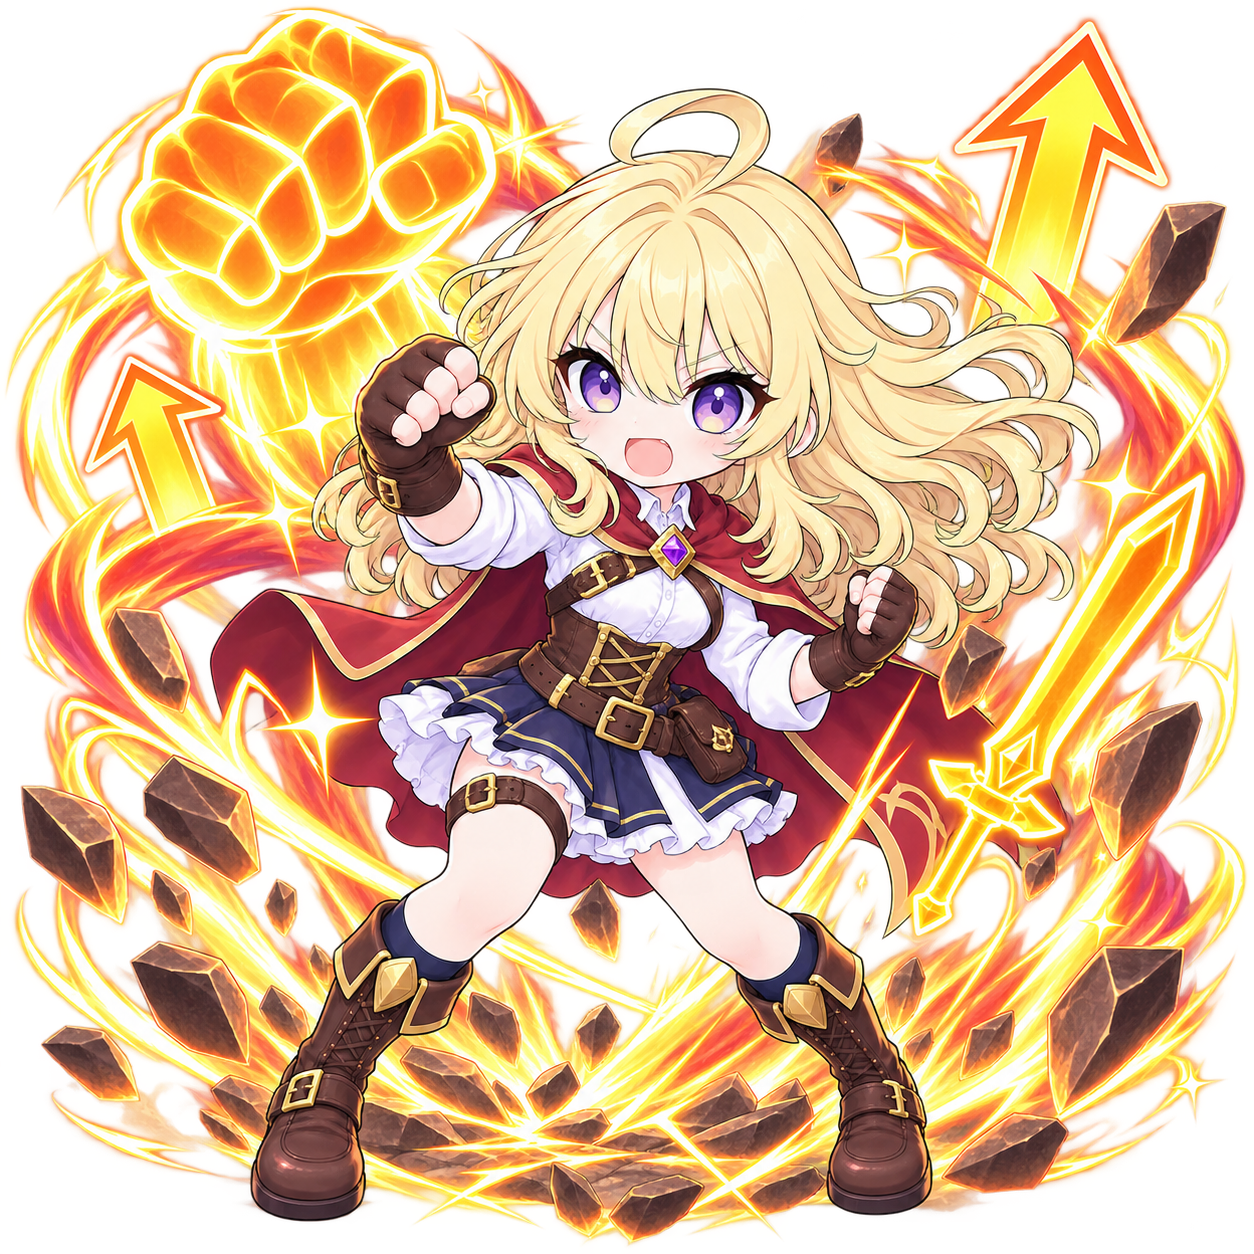
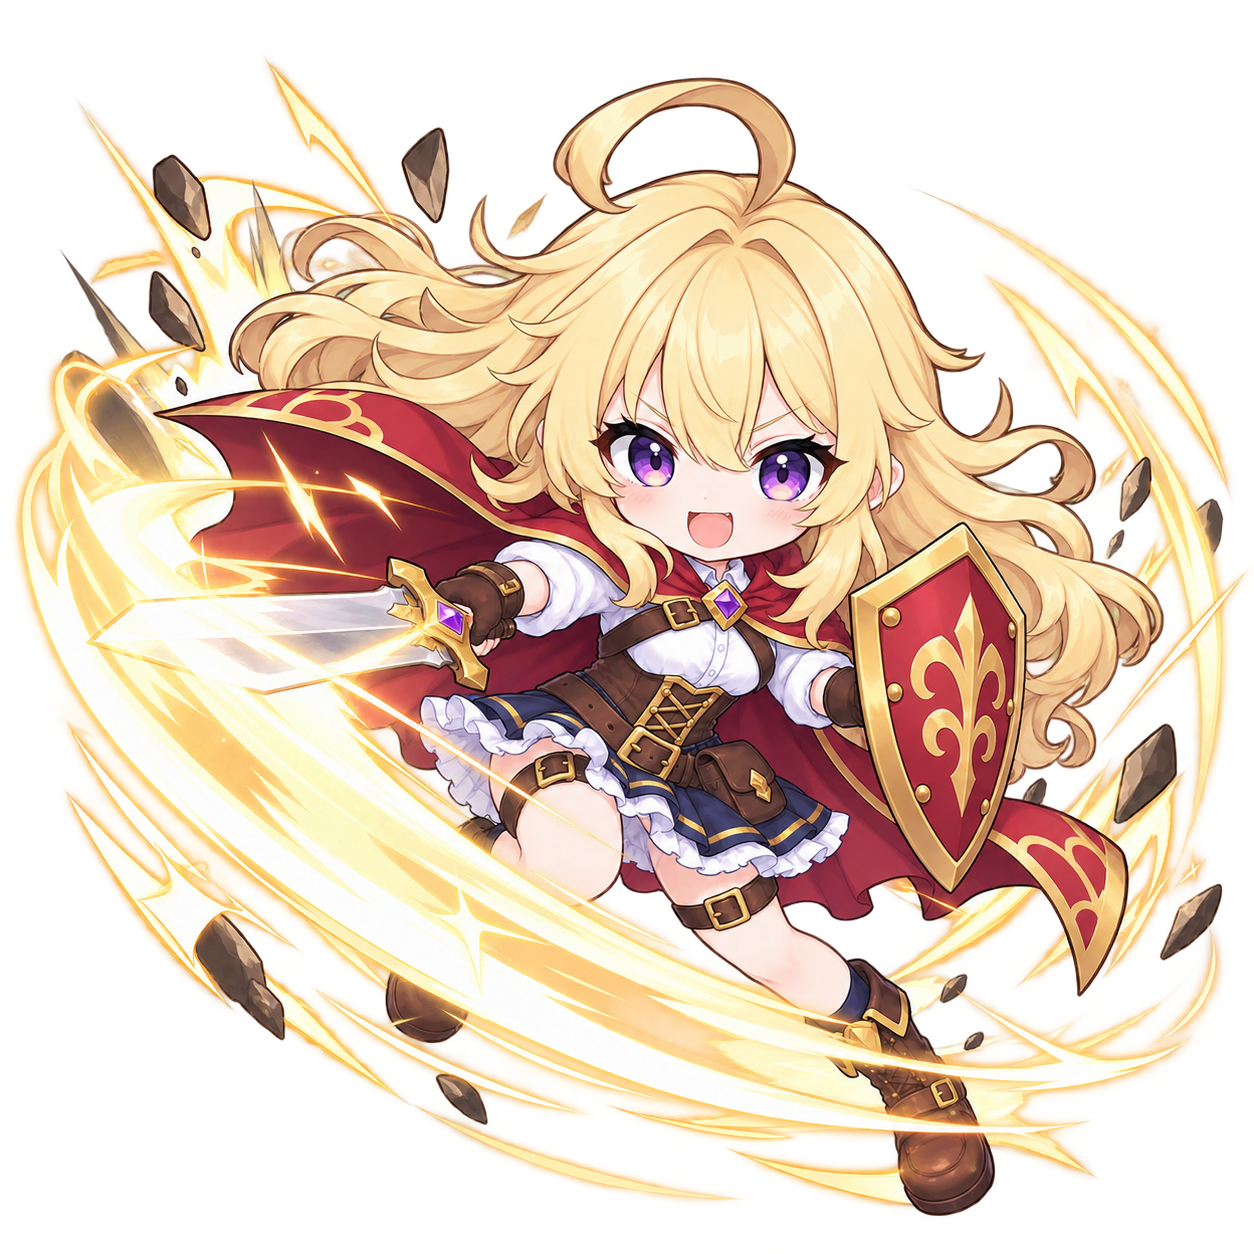
art: unify Xiaochu visuals and remove retired artwork

diff --git a/tests/ui-regression.test.js b/tests/ui-regression.test.js
@@ -20,6 +20,11 @@ let prototypeUrl; // set once the local static server (started in the IIFE below
 global.window = { location: { search: '' } };
 global.document = { getElementById: () => null, addEventListener: () => {}, dispatchEvent: () => {}, documentElement: {} };
 const { DIALOGUE_DEFS, JOURNAL_PAGES } = await import('../prototype/js/story.js');
+const { characterPortraitPath, characterBattlePortraitPath, characterFullArtPath } = await import('../prototype/js/state.js');
+for (const getPath of [characterPortraitPath, characterBattlePortraitPath, characterFullArtPath]) {
+  assert.equal(getPath('xiaochu'), 'assets/characters/xiaochu_battle_chibi.png');
+  assert.ok(fs.existsSync(path.join(prototypeDir, getPath('xiaochu'))));
+}
 const lineCount = scriptId => DIALOGUE_DEFS[scriptId].length;
 const approvedEncounter = fs.readFileSync(path.resolve(__dirname, '../story/xiaochu-first-encounter.md'), 'utf8')
   .split('## 劇情正文')[1].trim().split(/\r?\n/).filter(line => line.trim())
@@ -1002,6 +1007,7 @@ async function testXiaochuDaily(browser) {
   await page.click('#debugToggleBtn');
   await page.click('[data-debug-action="xiaochu-daily"]');
   await page.click('#debugToggleBtn');
+  assert.equal(await page.locator('#xiaochuTalkBtn img').getAttribute('src'), 'assets/characters/xiaochu_battle_chibi.png');
   const button = page.locator('#xiaochuTalkBtn');
   assert.equal(await button.isVisible(), true);
   assert.equal(await button.isEnabled(), true);

diff --git a/prototype/js/constants.js b/prototype/js/constants.js
@@ -287,7 +287,7 @@ export const ROSTER_CHAR_IDS = Object.keys(CHAR_DEFS).filter(id => !CHAR_DEFS[id
 // unlock data stay on CHAR_DEFS.
 export const SKIN_DEFS = {
   wuming_default: { characterId: 'wuming', name: '原始外觀', portrait: 'wuming', fullArt: 'wuming_full' },
-  xiaochu_default: { characterId: 'xiaochu', name: '原始外觀', portrait: 'xiaochu', battlePortrait: 'xiaochu_battle_chibi', fullArt: 'xiaochu_full' },
+  xiaochu_default: { characterId: 'xiaochu', name: '原始外觀', portrait: 'xiaochu_battle_chibi', battlePortrait: 'xiaochu_battle_chibi', fullArt: 'xiaochu_battle_chibi' },
   fengzi_default: { characterId: 'fengzi', name: '原始外觀', portrait: 'fengzi', fullArt: 'fengzi_full' },
 };
 

diff --git a/prototype/index.html b/prototype/index.html
@@ -115,7 +115,7 @@
           <span><b data-i18n="home.contract">締結誓約</b><small data-i18n="home.contractDesc">回應正在等待的靈魂</small></span>
         </button>
         <button id="xiaochuTalkBtn" class="homeFacilityBtn" type="button" hidden>
-          <img src="assets/characters/xiaochu_full_2.png" alt="">
+          <img src="assets/characters/xiaochu_battle_chibi.png" alt="">
           <span><b data-i18n="home.xiaochuTalk">和小初聊聊</b><small id="xiaochuTalkHint"></small></span>
         </button>
       </div>

diff --git a/prototype/js/story.js b/prototype/js/story.js
@@ -216,7 +216,7 @@ export const DIALOGUE_PRESENTATION = {
 export const STORY_SPEAKERS = {
   goddess: { name: '女神', art: 'assets/story/goddess.png', goddess: true },
   xiaochu_voice: { name: '？？？', narration: true },
-  xiaochu_unknown: { name: '？？？', art: 'assets/characters/xiaochu_full_2.png' },
+  xiaochu_unknown: { name: '？？？', art: 'assets/characters/xiaochu_battle_chibi.png' },
   narrator: { name: '', narration: true },
 };
 

diff --git a/design.md b/design.md
@@ -117,7 +117,7 @@
 - 圖片檔名保留 `xiaochu_skill1`、`xiaochu_skill2`、`xiaochu_skill3`、`xiaochu_action`，由玩家繪製替換；程式提供舉盾、反擊就緒、斬擊強化狀態與成功格擋光框。
 - 初遇的史萊姆橋段使用既有普通史萊姆圖片出現在對話框上方，隨台詞跳出、彈跳、縮身、撞擊與被擊倒後退場；短動作播完才能換句，不改正文、不另開戰鬥。小初現身後不再顯示史萊姆。
 - 無名沿用現有立繪，從初遇開場到史萊姆被擊倒持續站在場上，旁白與小初畫外音不切走角色；配合閃避、撞退與補劍動作，不加劍光。橋段結束後恢復一般對話立繪，不重複顯示兩個無名。
-- 小初對話立繪試用玩家提供的 `xiaochu_full_2.png`（自然站姿、睜眼微笑），未報姓名與報名後統一使用；保留舊圖，不修改戰鬥圖片，亦不對新圖進行程式去背。
+- 小初頭像、戰鬥、居家入口、對話與契約立繪統一使用玩家提供的 Q 版 `xiaochu_battle_chibi.png`；四張技能圖使用玩家同名替換的新版。舊頭像、舊立繪、戰鬥試作與已退役的親吻圖移除，可由 Git 歷史恢復；共鳴靈魂球特效保留。不對新圖進行程式去背。
 - 後續完整對話在 `prototype/js/xiaochu-story.js`，不新增死因。家中新增「和小初聊聊」與當前提示；新 Debug 可從同行或契約前談心開始。`xiaochuStoryChapter` 隨永久存檔保存，取消契約不清進度。
 - 目前這套流程主要完成「遇見與取得角色」的骨架；契約後如何長期相處、培養關係與改變事件，尚未實作。
 - 豐子保留角色資料與既有解鎖條件，專屬故事尚未重寫。萊咪目前不上線，圖片素材可保留但不進入正式流程。

diff --git a/story/xiaochu-covenant.md b/story/xiaochu-covenant.md
@@ -17,7 +17,7 @@
 - 新增五段完整正文的唯一資料來源：[xiaochu-story.js](../prototype/js/xiaochu-story.js)。`speaker` 是發言者，`text` 是遊戲顯示原文；`thought` 標示心中的聲音。
 - 初遇維持 [xiaochu-first-encounter.md](xiaochu-first-encounter.md) 已確認文字。
 - 家中場景使用現有 `wuming_home.png`，探索使用現有森林背景。
-- 小初對話與契約成立立繪均使用玩家提供的 `xiaochu_full_2.png`，戰鬥圖不變，沒有程式去背。
+- 小初對話、契約成立、頭像與戰鬥統一使用玩家提供的 Q 版 `xiaochu_battle_chibi.png`，沒有程式去背；舊版角色圖片已移除。
 
 ## Debug 與存檔
 
